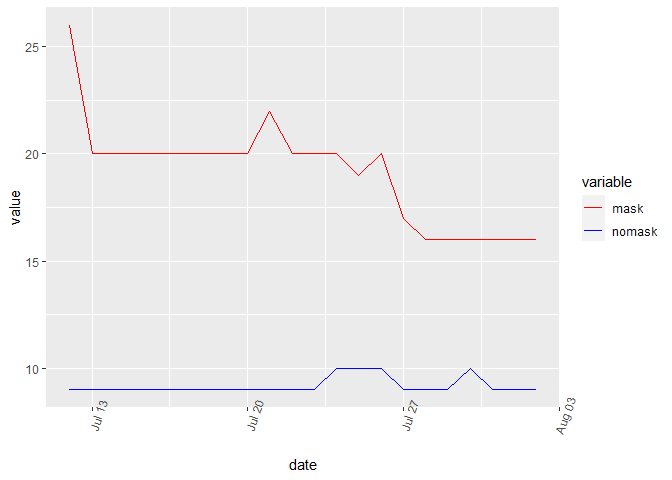
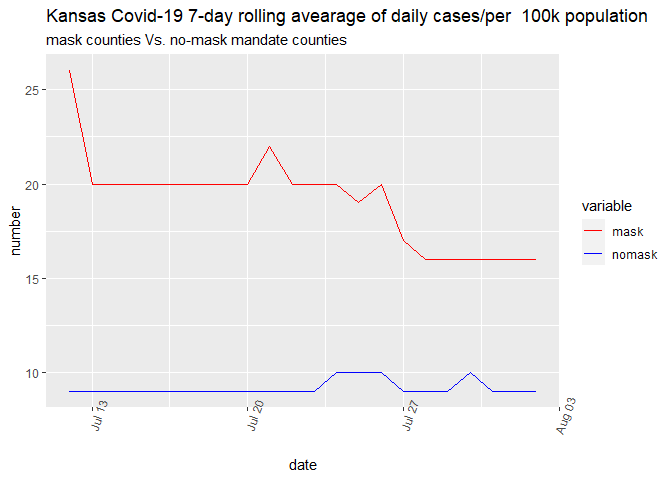
1

diff --git a/lab-07.md b/lab-07.md
@@ -61,7 +61,8 @@ df_melt %>%
   ggplot(aes(x=date,y=value, color=variable))+
   geom_line()+
   scale_color_manual(values = c("red", "blue"))+
-  theme(axis.text.x=element_text(angle=70))
+  theme(axis.text.x=element_text(angle=70)) +
+  labs(title= "Kansas Covid-19 7-day rolling avearage of daily cases/per  100k population", subtitle="mask counties Vs. no-mask mandate counties", x= "date", y="number")
 ```
 
 ![](lab-07_files/figure-gfm/unnamed-chunk-2-1.png)<!-- --> \`\`\`
